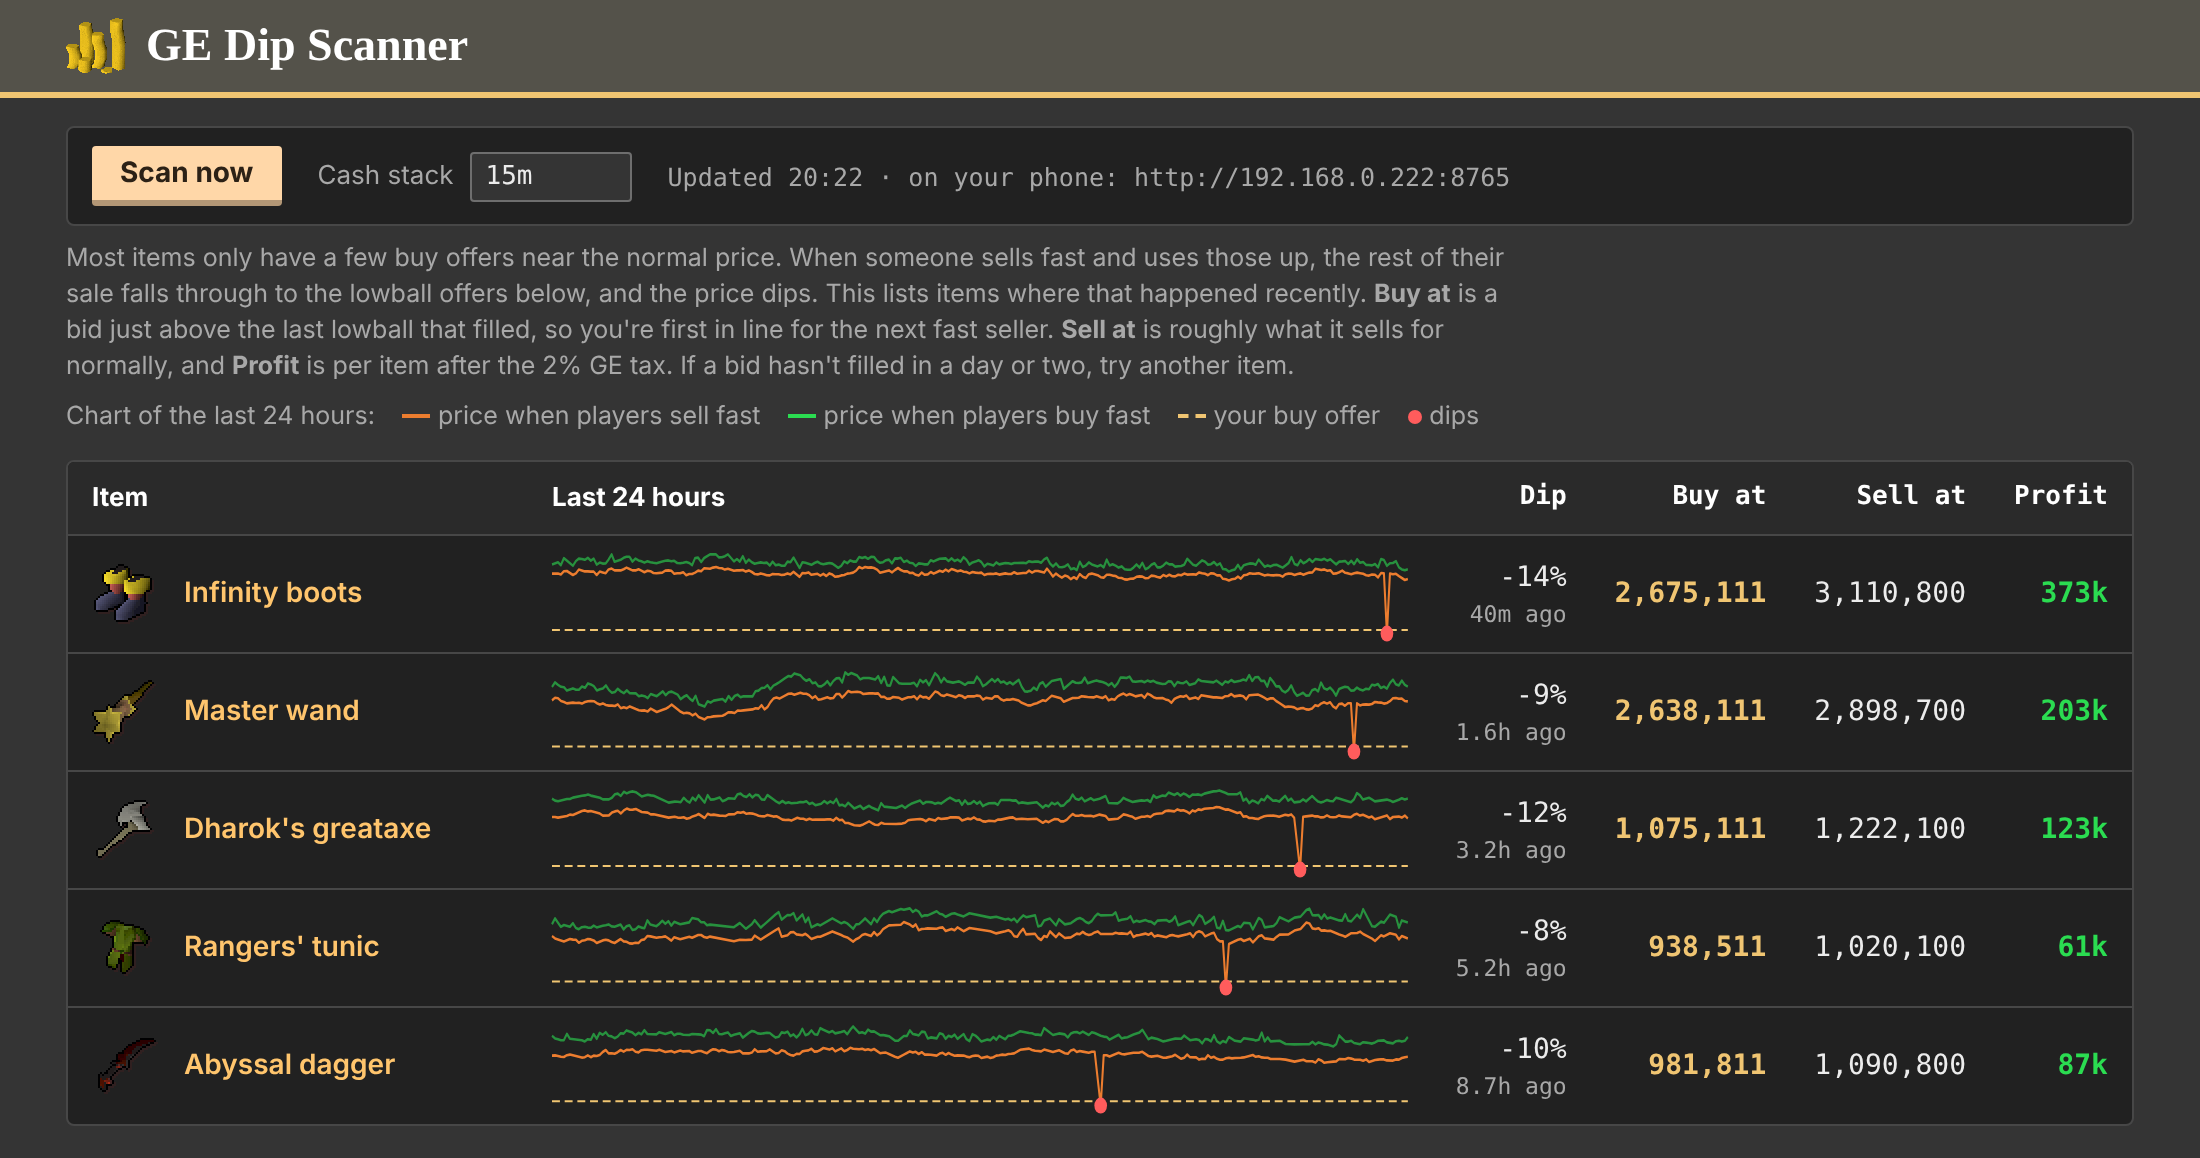
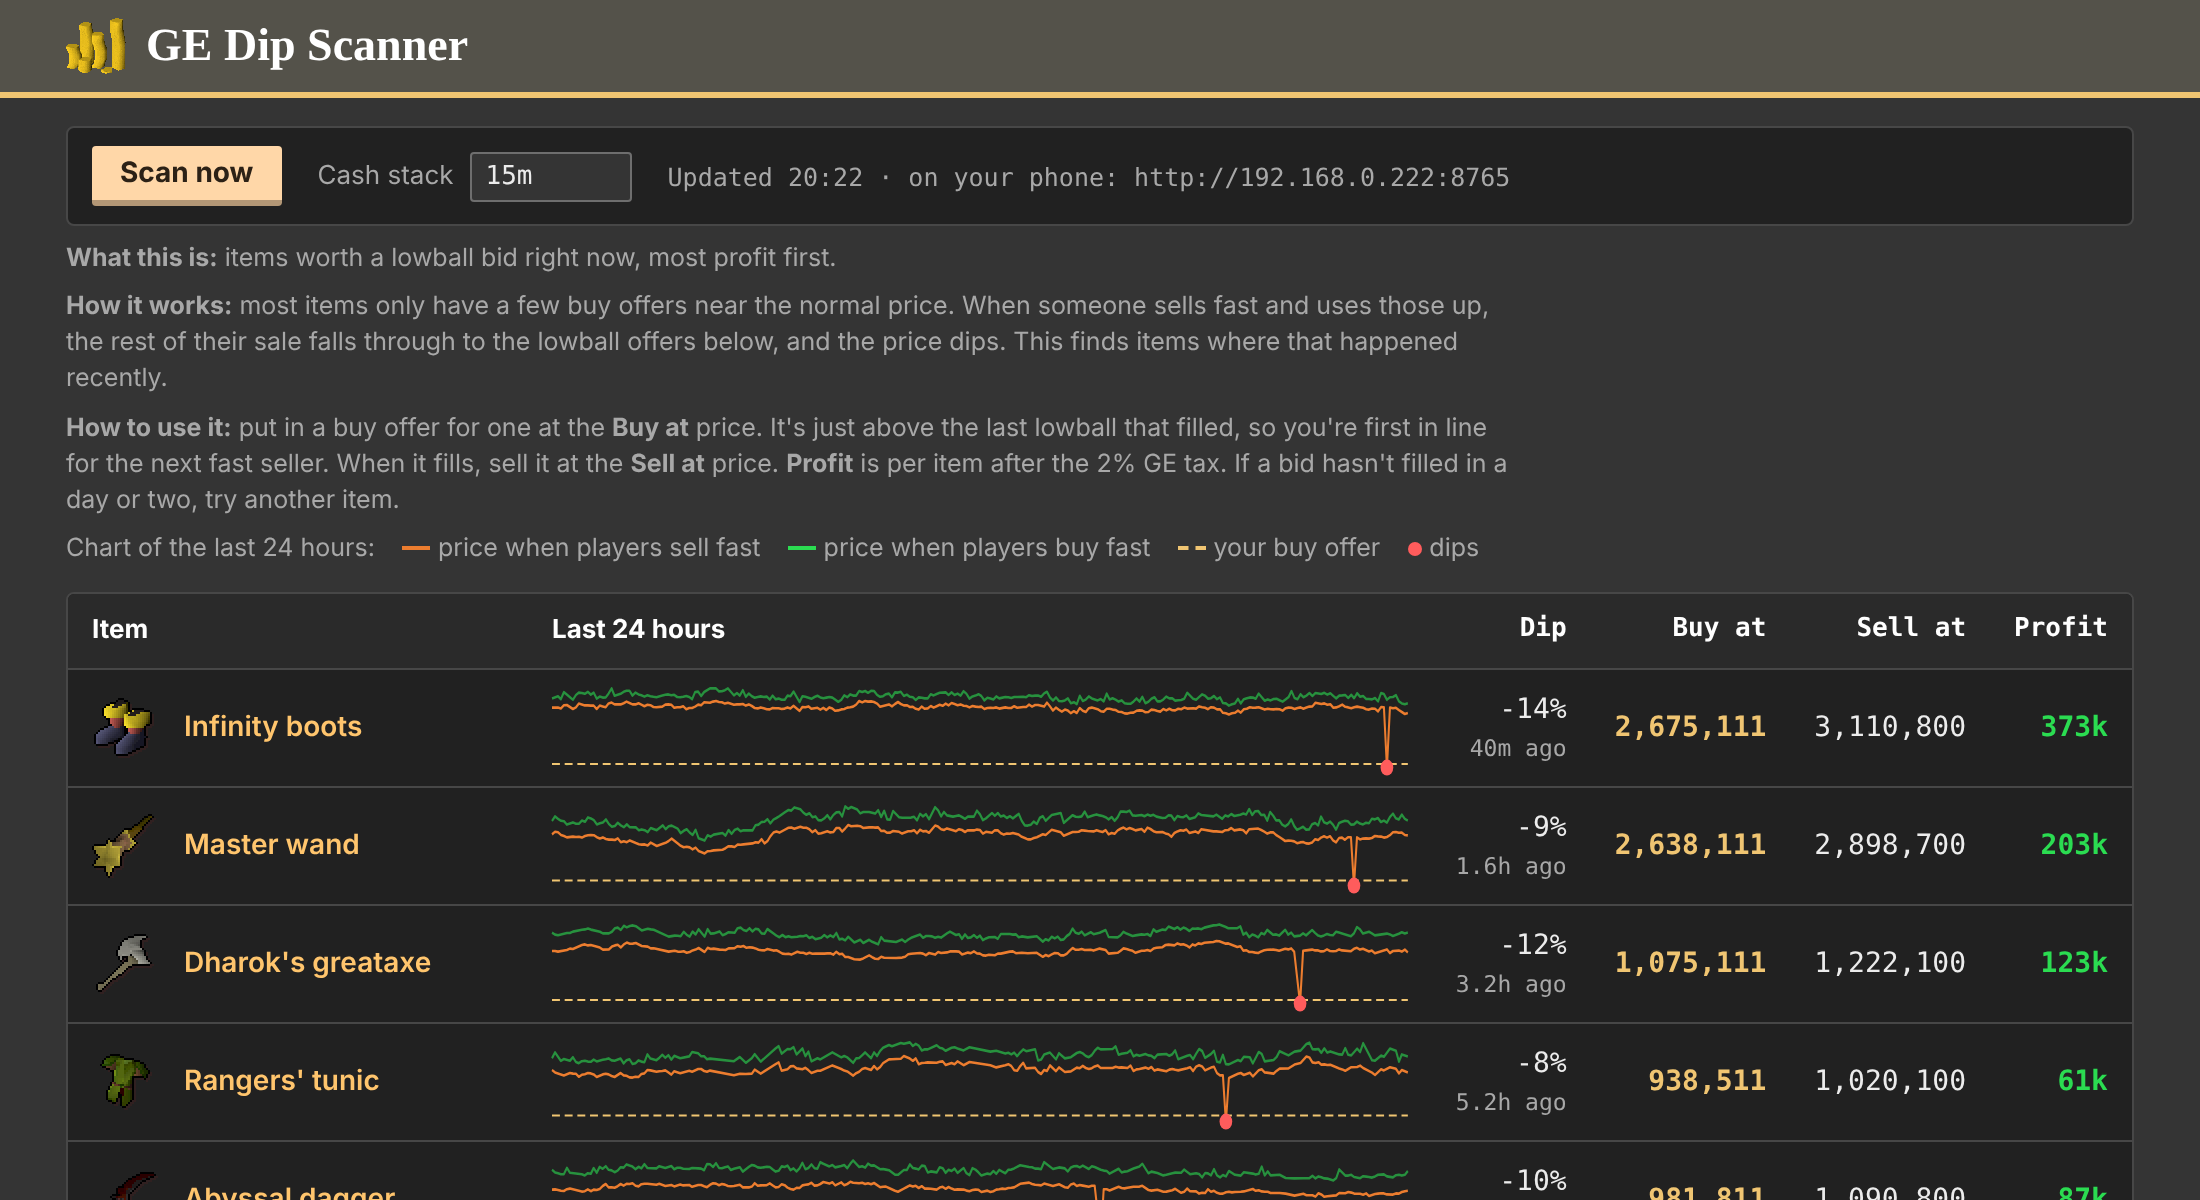
Page text: what this is, how it works, how to use it

diff --git a/dip_scanner.py b/dip_scanner.py
@@ -704,12 +704,14 @@ th.num {{ text-align:right }}
 <main>
 {toolbar}
 <div class="legend">
-<p>Most items only have a few buy offers near the normal price. When someone sells fast and uses
-those up, the rest of their sale falls through to the lowball offers below, and the price dips.
-This lists items where that happened recently. <b>Buy at</b> is a bid just above the last lowball
-that filled, so you're first in line for the next fast seller. <b>Sell at</b> is roughly what it
-sells for normally, and <b>Profit</b> is per item after the 2% GE tax. If a bid hasn't filled in a
-day or two, try another item.</p>
+<p><b>What this is:</b> items worth a lowball bid right now, most profit first.</p>
+<p><b>How it works:</b> most items only have a few buy offers near the normal price. When someone
+sells fast and uses those up, the rest of their sale falls through to the lowball offers below, and
+the price dips. This finds items where that happened recently.</p>
+<p><b>How to use it:</b> put in a buy offer for one at the <b>Buy at</b> price. It's just above the
+last lowball that filled, so you're first in line for the next fast seller. When it fills, sell it
+at the <b>Sell at</b> price. <b>Profit</b> is per item after the 2% GE tax. If a bid hasn't filled
+in a day or two, try another item.</p>
 <p>Chart of the last 24 hours: <i style="background:var(--sell)"></i>price when players sell fast
 <i style="background:var(--buy)"></i>price when players buy fast <i style="border-top:2px dashed var(--gold)"></i>your buy offer
 <i class="dot"></i>dips</p>
